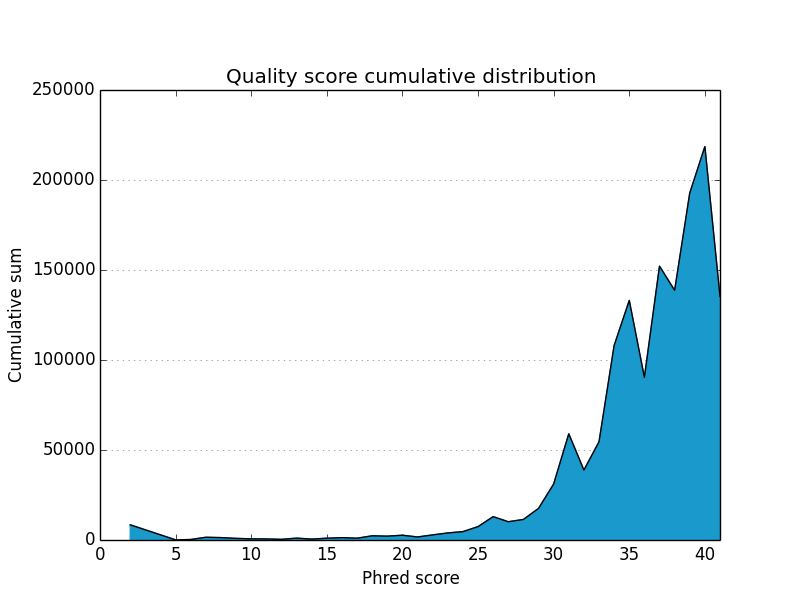
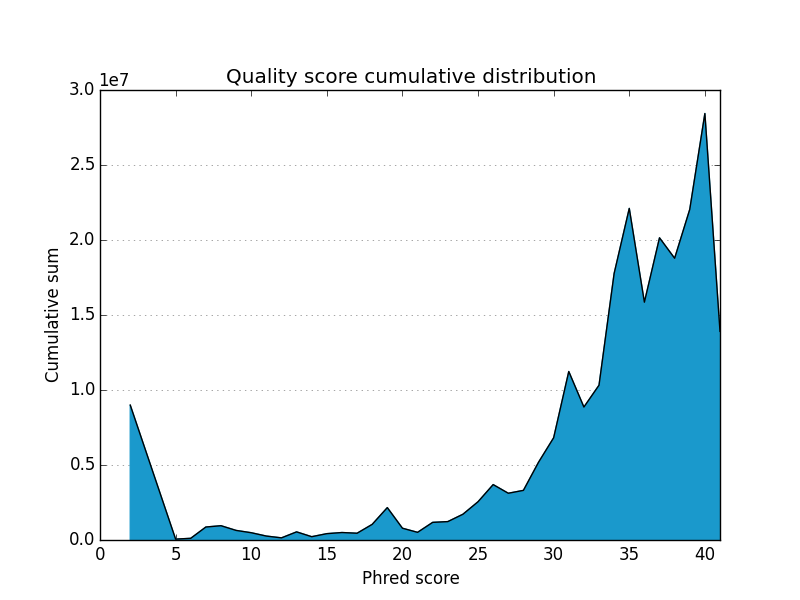
Replace example images, remove table from README

diff --git a/README.md b/README.md
@@ -70,120 +70,6 @@ Examples
 
 ![quality distribution](https://raw.github.com/mdshw5/fastqp/master/examples/example_qualdist.png)
 
-### Tabular output
-
-    Pos	Depth	0.05	0.25	0.5	0.75	0.95	S	T	W	K	M	N	A	C	G
-    1	1.7E+04	28	31	31	33	34	3534	34	11	1396	3576	3837	4264	28	37
-    2	1.7E+04	28	31	31	33	34	4151	31	6	8	1114	4529	2869	3956	53
-    3	1.7E+04	27	31	31	34	34	26	14	13	11	301	5063	3355	4031	3903
-    4	1.7E+04	32	35	37	37	37	37	8	7	6	4572	3693	3946	4448
-    5	1.7E+04	32	35	37	37	37	4271	7	10	9	4378	3883	4145	14
-    6	1.7E+04	32	35	37	37	37	17	12	13	7	4401	4146	3996	4125
-    7	1.7E+04	32	35	37	37	37	3990	9	9	2	4451	3859	4377	6	14
-    8	1.7E+04	32	35	37	37	37	9	13	12	11	2	4472	4042	4331	3825
-    9	1.7E+04	32	37	39	39	39	3744	12	9	2	4274	4214	4433	13	16
-    10	1.7E+04	32	37	39	39	39	18	4	8	9	1	4350	4140	4339	3848
-    11	1.7E+04	32	37	39	39	39	3898	8	11	3	1	4410	4022	4351	13
-    12	1.7E+04	32	37	39	39	39	10	7	8	12	1	4195	4117	4463	3904
-    13	1.7E+04	32	37	39	39	39	12	6	9	4309	4016	4293	8	4064
-    14	1.7E+04	32	38	39	40	41	29	9	16	5	4404	3907	4381	3966
-    15	1.7E+04	32	38	39	40	41	12	5	2	6	4600	3990	4271	3831
-    16	1.7E+04	32	38	39	40	41	13	5	11	4474	3950	4335	14	3915
-    17	1.7E+04	32	38	39	40	41	18	5	11	8	4392	4014	4266	4003
-    18	1.7E+04	32	38	39	40	41	3938	6	11	4279	4077	4376	8	22
-    19	1.7E+04	32	38	40	40	41	3879	3	11	7	4314	4160	4326	17
-    20	1.7E+04	32	38	39	40	41	3898	5	12	4436	4111	4217	12	26
-    21	1.7E+04	32	38	39	40	41	20	19	10	17	1	4286	4091	4371	3902
-    22	1.7E+04	32	38	39	40	41	18	6	16	4360	4002	4269	6	4040
-    23	1.7E+04	32	37	39	40	41	22	15	14	4258	4064	4362	13	3969
-    24	1.7E+04	32	37	39	40	41	21	14	14	13	4406	3984	4266	3999
-    25	1.7E+04	32	37	39	40	41	19	12	13	4270	4062	4244	17	4080
-    26	1.7E+04	32	37	39	40	41	4100	19	25	14	4437	3851	4244	27
-    27	1.7E+04	32	37	39	40	41	36	11	13	4508	3813	4291	13	4030
-    28	1.7E+04	32	37	39	40	41	22	11	23	4234	4220	4227	9	3956
-    29	1.7E+04	32	37	39	40	41	22	20	11	11	4289	3993	4265	4077
-    30	1.7E+04	32	37	39	40	41	59	30	20	18	4321	4247	4200	3782
-    31	1.7E+04	30	37	39	40	41	41	15	19	13	4312	4076	4090	4106
-    32	1.7E+04	30	37	39	40	41	40	14	18	4395	4102	4206	14	3877
-    33	1.7E+04	30	37	39	40	41	34	26	14	18	4274	4056	4286	3951
-    34	1.7E+04	30	37	39	40	41	32	13	20	4286	4048	4069	16	4166
-    35	1.7E+04	30	37	39	40	41	34	21	18	13	4448	3907	4229	3951
-    36	1.7E+04	30	37	39	40	41	44	24	21	11	4298	3900	4230	4065
-    37	1.7E+04	30	37	39	40	41	45	20	39	4	4225	3961	4121	12	4131
-    38	1.7E+04	30	37	39	40	41	39	29	33	4375	3990	4147	28	3875
-    39	1.6E+04	30	37	39	40	41	3938	22	30	4233	3904	4282	32	42
-    40	1.6E+04	30	37	39	40	41	37	25	15	15	4375	3941	4074	3952
-    41	1.6E+04	30	37	39	40	41	3968	20	12	13	4273	3830	4231	36
-    42	1.6E+04	30	36	39	40	41	29	20	28	4181	3798	4364	25	3885
-    43	1.6E+04	30	36	39	40	41	40	17	26	24	4045	4016	4090	41	3984
-    44	1.6E+04	30	36	39	40	41	35	24	23	4255	3763	4205	22	3902
-    45	1.6E+04	30	36	39	40	41	36	32	24	15	4149	3952	4129	3846
-    46	1.6E+04	30	36	38	40	41	3872	28	22	24	4164	3896	4078	40
-    47	1.6E+04	30	36	38	40	41	44	24	20	14	4416	3711	4026	3802
-    48	1.6E+04	30	36	38	40	41	41	22	14	20	4205	3765	4112	3826
-    49	1.6E+04	28	36	38	40	41	3984	21	28	3979	3800	4044	27	52
-    50	1.6E+04	28	36	38	40	41	37	27	15	18	3991	3758	4093	3918
-    51	1.6E+04	28	35	38	39	41	37	14	27	4095	3826	4025	18	3741
-    52	1.6E+04	28	35	38	39	41	3743	21	22	4041	3824	3992	32	45
-    53	1.6E+04	28	35	38	40	41	3830	18	19	4049	3709	3955	20	49
-    54	1.6E+04	28	36	38	40	41	3702	16	20	3982	3772	4032	18	44
-    55	1.5E+04	28	36	38	40	41	3716	13	28	3914	3763	3991	20	52
-    56	1.5E+04	28	36	38	40	41	3626	21	16	4004	3676	4001	28	42
-    57	1.5E+04	28	36	38	40	41	3706	14	22	3993	3573	3966	19	48
-    58	1.5E+04	28	35	38	40	41	3629	34	23	16	4	4011	3526	3948	59
-    59	1.5E+04	28	35	38	40	41	3751	27	26	16	3792	3602	3920	48
-    60	1.5E+04	28	35	38	40	41	52	21	22	11	4023	3550	3860	3541
-    61	1.5E+04	28	35	38	40	41	3537	33	17	13	1	3689	3743	3899	46
-    62	1.5E+04	28	35	38	40	41	3568	28	19	9	3970	3438	3786	57
-    63	1.5E+04	28	35	38	40	41	55	33	24	23	3775	3468	3977	3424
-    64	1.5E+04	27	34	38	40	41	3593	34	19	22	3764	3482	3691	41
-    65	1.5E+04	26	34	37	39	41	3501	21	24	3817	3423	3641	30	62
-    66	1.4E+04	26	34	37	39	41	46	32	23	18	3668	3318	3802	3481
-    67	1.4E+04	26	34	37	39	41	3351	34	24	21	3601	3530	3609	53
-    68	1.4E+04	26	34	37	39	41	44	38	20	22	3593	3342	3555	3435
-    69	1.4E+04	26	34	36	39	41	3314	34	23	12	3566	3304	3607	50
-    70	1.4E+04	26	34	36	39	41	3227	29	27	21	3490	3328	3544	49
-    71	1.4E+04	26	33	36	39	40	3291	24	34	3423	3204	3455	26	64
-    72	1.3E+04	26	33	36	39	40	3101	12	25	1	3437	3128	3547	34	44
-    73	1.3E+04	26	33	36	38	40	3164	35	24	24	3389	3160	3329	47
-    74	1.3E+04	26	33	36	38	40	3090	14	41	3334	3062	3352	18	86
-    75	1.3E+04	25	33	35	38	40	70	44	27	21	4	3275	2914	3436	3001
-    76	1.3E+04	22	31	34	36	39	75	16	38	1	3272	2971	3218	27	2946
-    77	1.2E+04	23	31	34	36	39	2909	14	34	3139	2871	3304	23	76
-    78	1.2E+04	24	32	35	37	39	67	30	31	16	1	3065	2934	3202	2836
-    79	1.2E+04	25	32	35	37	39	67	36	26	14	1	2956	2904	3243	2734
-    80	1.2E+04	26	32	35	36	39	74	28	23	16	3008	2904	3070	2658
-    81	1.2E+04	24	32	35	36	39	2548	23	36	18	1	3043	2803	3011	97
-    82	1.1E+04	24	32	35	36	39	2501	26	35	2855	2794	3074	35	88
-    83	1.1E+04	24	32	35	36	39	2505	46	26	19	2777	2794	2956	75
-    84	1.1E+04	24	32	34	36	39	106	21	32	2592	2731	3010	43	2480
-    85	1.1E+04	24	32	34	36	39	2473	25	31	2563	2698	2907	64	96
-    86	1.1E+04	22	32	34	36	39	111	64	33	23	2408	2669	2934	2391
-    87	1.0E+04	22	32	34	35	38	101	89	33	30	2350	2593	2933	2332
-    88	1.0E+04	22	32	34	35	37	2313	126	29	29	2285	2434	2994	103
-    89	1.0E+04	20	32	34	35	37	165	180	56	19	2315	2339	2839	2257
-    90	1.0E+04	20	32	34	35	37	204	221	60	33	2214	2366	2755	2148
-    91	9.9E+03	18	32	34	35	37	2029	241	85	23	2216	2339	2702	224
-    92	9.7E+03	18	31	34	35	37	2012	294	135	25	2199	2275	2511	272
-    93	9.6E+03	18	32	34	35	36	1914	315	157	28	3	2082	2112	2663	290
-    94	9.4E+03	16	31	34	35	36	334	326	212	26	1954	2036	2504	2016
-    95	9.1E+03	25	31	34	35	36	334	24	246	2117	1969	2408	35	1992
-    96	8.9E+03	2	31	34	35	36	1853	29	277	17	2343	1887	2126	346
-    97	8.6E+03	2	31	34	35	36	55	21	300	2241	2012	2071	21	1907
-    98	8.4E+03	2	31	34	35	36	48	37	308	10	1	1940	1939	2204	1879
-    99	8.0E+03	2	31	34	35	36	2070	1920	2101	1943
-    100	7.7E+03	2	31	34	35	36	2107	2046	2014	1558
-    kmer	count
-    TGCTG	5641
-    CTGCT	5623
-    ACTGC	4980
-    GCTGT	4819
-    CTGTA	4700
-    TGTAC	4638
-    TACTG	3068
-    CACTG	3046
-    TGACC	2739
-    CTTTA	2693
 
 Acknowledgements
 ----------------
